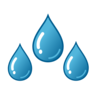
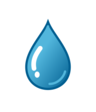
Refine shared Companion page loader to one gently pulsing blue droplet with retained loading text and safeguards
Replit-Task-Id: 5f65b8f8-1a64-495b-b72c-13d6b00f8265
Replit-Merge-Attempt: MergeTask:5f65b8f8-1a64-495b-b72c-13d6b00f8265:1:a96e494c

Changed region(s): [[0.0625, 0.1071, 0.9375, 0.8304]]

diff --git a/artifacts/uc-companion/components/FilterDropIllustration.tsx b/artifacts/uc-companion/components/FilterDropIllustration.tsx
@@ -3,7 +3,7 @@ import { Image } from 'expo-image';
 import Ionicons from '@expo/vector-icons/Ionicons';
 import { useColors } from '@/hooks/useColors';
 
-/** Three bundled crystal-blue droplets. Error feedback always uses the still frame. */
+/** One bundled glossy blue water droplet. Error feedback always uses the still frame. */
 export default function FilterDropIllustration({ animate = false }: { animate?: boolean }) {
   const colors = useColors();
   const [failed, setFailed] = useState(false);

diff --git a/.agents/memory/MEMORY.md b/.agents/memory/MEMORY.md
@@ -83,3 +83,4 @@
 - [Companion session rejection](companion-session-rejection.md) — exact forced-sign-out contracts only; preserve request-token provenance and synchronous duplicate protection.
 - [Customer signup reporting](customer-signup-reporting.md) — user chose Africa/Nairobi; Monday and first-of-month midnight resets must not follow database timezone settings.
 - [Field-review reminder policy](field-review-reminder-policy.md) — warn once per review cycle; becoming overdue alone does not authorize a second reminder.
+- [Page loader presentation](page-loader-presentation.md) — user chose a single blue droplet with visible loading text; future artwork restyles must retain the text.

diff --git a/.agents/memory/page-loader-presentation.md b/.agents/memory/page-loader-presentation.md
@@ -1,0 +1,10 @@
+---
+name: Page loader presentation
+description: User's visual choice for shared Companion page-data loading feedback.
+---
+
+Use one gently pulsing glossy blue water droplet beside the existing visible loading text. Keep that text when restyling the artwork.
+
+**Why:** The user explicitly chose to keep visible loading text when changing from three droplets to one.
+
+**How to apply:** This applies to shared Companion page-data loaders, not payment/submission spinners, launch splash screens, app icons, or ProjectHub.
